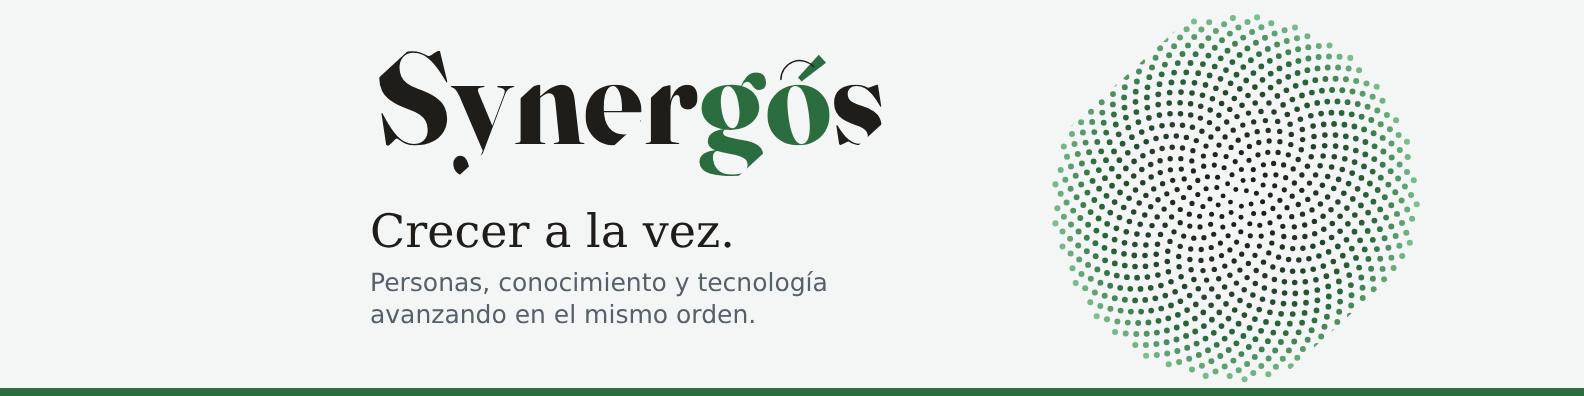
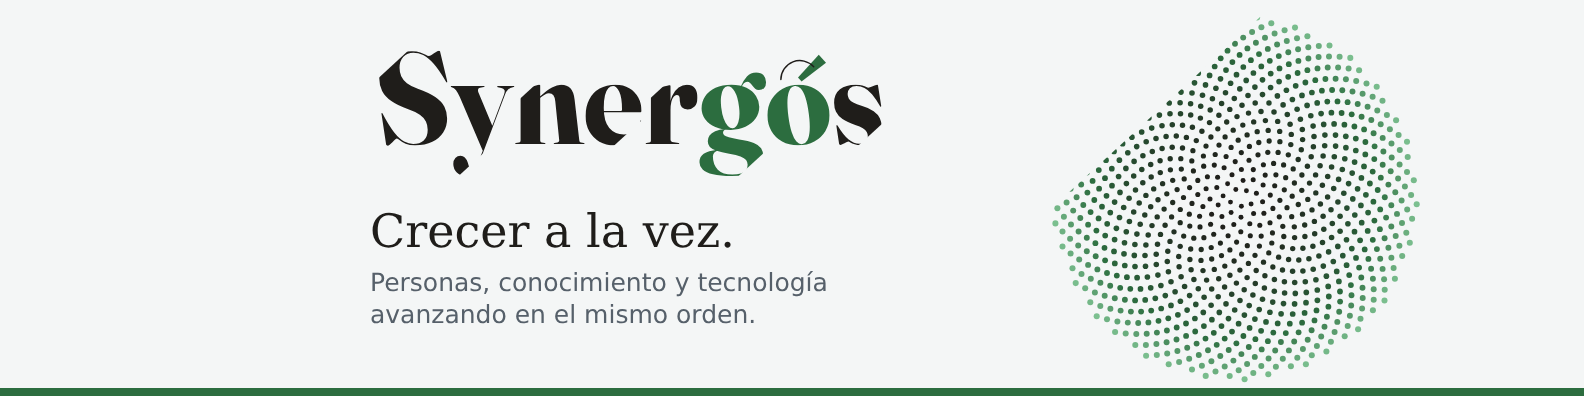
Cabecera: un solo corte en el lado superior, más profundo
Claude-Session: https://claude.ai/code/session_01Kwrj1aJqv3F9rgwxPu8ASz

diff --git a/synergos/imagenes/girasol-build.py b/synergos/imagenes/girasol-build.py
@@ -247,17 +247,16 @@ def svg_zoom_cabecera(W=1584, H=396, cx=1235, cy=198, R0=182, N=900, s=2.0):
     o.append('</g></svg>')
     return "\n".join(o)
 
-open("girasol-cabecera.svg","w").write(svg_zoom_cabecera())
 
-def svg_sesgo_cabecera(W=1584, H=396, cx=1235, cy=198, R0=182, N=900, h=0.90):
-    """Girasol entero sin zoom y con dos cortes en diagonal, opuestos y paralelos a la tilde del logo (137,5 grados), como las muescas de las letras."""
+def svg_sesgo_cabecera(W=1584, H=396, cx=1235, cy=198, R0=182, N=900, h=0.64):
+    """Girasol entero sin zoom y con un único corte en diagonal en el lado superior, paralelo a la tilde del logo (137,5 grados)."""
     c0=R0/math.sqrt(N)
     a=math.radians(180-137.5)              # 42,5 grados: inclinación del corte respecto a la horizontal
     D=(math.cos(a), -math.sin(a))          # dirección del corte en pantalla (sube hacia la derecha)
-    Nn=(-math.sin(a), -math.cos(a))        # normal hacia arriba-izquierda
-    Lg=R0*1.4; hh=R0*h
-    pts=[(cx+Lg*D[0]+hh*Nn[0], cy+Lg*D[1]+hh*Nn[1]), (cx-Lg*D[0]+hh*Nn[0], cy-Lg*D[1]+hh*Nn[1]),
-         (cx-Lg*D[0]-hh*Nn[0], cy-Lg*D[1]-hh*Nn[1]), (cx+Lg*D[0]-hh*Nn[0], cy+Lg*D[1]-hh*Nn[1])]
+    Nn=(-math.sin(a), -math.cos(a))        # normal hacia arriba-izquierda (lado que se corta)
+    Lg=R0*1.6; hh=R0*h
+    pts=[(cx+hh*Nn[0]+Lg*D[0], cy+hh*Nn[1]+Lg*D[1]), (cx+hh*Nn[0]-Lg*D[0], cy+hh*Nn[1]-Lg*D[1]),
+         (cx-2*R0*Nn[0]-Lg*D[0], cy-2*R0*Nn[1]-Lg*D[1]), (cx-2*R0*Nn[0]+Lg*D[0], cy-2*R0*Nn[1]+Lg*D[1])]
     poly=" ".join(f"{x:.1f},{y:.1f}" for x,y in pts)
     def color(n):
         return mix(INK,GREEN,min(1,n/N*1.6)) if n<N*0.62 else mix(GREEN,LIGHT,(n/N-0.62)/0.38)
@@ -267,9 +266,7 @@ def svg_sesgo_cabecera(W=1584, H=396, cx=1235, cy=198, R0=182, N=900, h=0.90):
         rad=c0*(0.40+0.10*math.sqrt(n/N))
         o.append(f'<circle cx="{cx+r*math.cos(th):.1f}" cy="{cy+r*math.sin(th):.1f}" r="{rad:.2f}" fill="{color(n)}"/>')
     o.append('</g></svg>')
-    # comprobación: los dos cortes son paralelos entre sí y simétricos respecto al centro de la flor
-    assert abs((pts[0][0]-pts[3][0])*Nn[0]+(pts[0][1]-pts[3][1])*Nn[1]-2*hh)<1e-6
-    print("comprobado: dos cortes paralelos a la tilde (42,5 grados sobre la horizontal), a igual distancia del centro a ambos lados")
+    print(f"comprobado: un único corte en el lado superior, paralelo a la tilde (42,5 grados sobre la horizontal), a {h:.2f} del radio del centro")
     return "\n".join(o)
 
 open("girasol-cabecera.svg","w").write(svg_sesgo_cabecera())

diff --git a/synergos/04-bitacora.md b/synergos/04-bitacora.md
@@ -80,3 +80,4 @@ Registro cronológico de cómo evoluciona la idea. Entradas breves: qué se disc
 - 27 oct, tarde: Alejandro observa que en el zoom se pierde la simetría. Causa: la lente giraba las semillas y mostraba solo 13. Rehecho como ampliación fiel (x2) del círculo marcado, sin girar, con las semillas 1 y 2 en verde, los dos rayos reales y el arco de 137,5 grados.
 - 27 oct, tarde: Alejandro aprueba girasol-zoom y pide usarla en la cabecera asegurando las simetrías. Cabecera rehecha: logo y eslogan a la izquierda (fuera de la zona del avatar) y girasol entero con lente a la derecha (girasol-cabecera.svg). El script verifica por código que la lente es una ampliación exacta x2 del círculo marcado (34 semillas) y que queda dentro del contorno de la flor. Pendiente: subirla al perfil.
 - 27 oct, tarde: Alejandro pide quitar el zoom de la cabecera y dar a la flor un corte como el de las letras del logo. Hecho: girasol entero con dos cortes opuestos en diagonal (42,5 grados sobre la horizontal, paralelos a la tilde) a igual distancia del centro (girasol-cabecera.svg, función svg_sesgo_cabecera). El script verifica que los cortes son paralelos y simétricos.
+- 27 oct, tarde: cabecera con un único corte en diagonal, solo en el lado superior y más profundo (0,64 del radio), paralelo a la tilde. Sustituye a los dos cortes opuestos.
